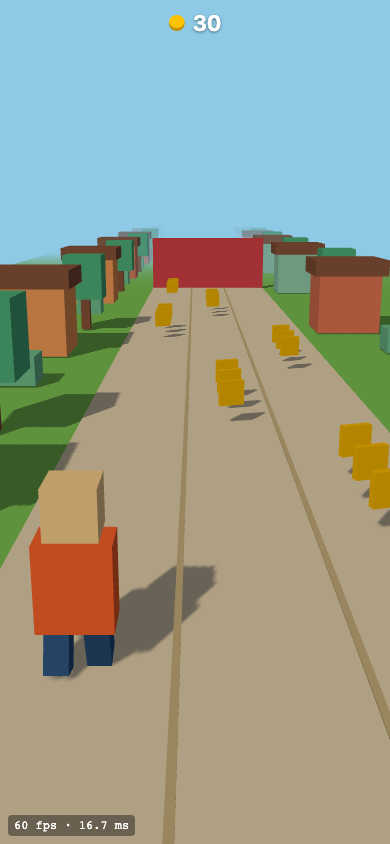
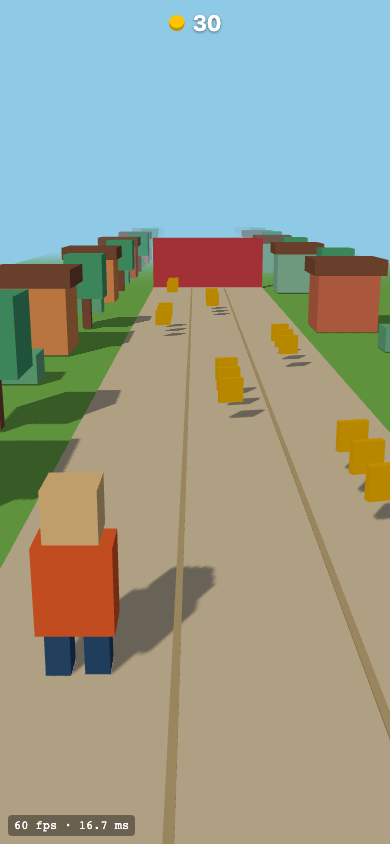
test(spiel)+ci: Codex-Review eingearbeitet — Render-Gate, Pointer-Swipe-Beleg, Least-Privilege
- Farbvarianz-Check im Playwright-Test: schwarzer/kaputter WebGL-Frame faellt
  jetzt maschinell auf (gemessen: 114 Farben/Helligkeit 230 vs. Schwellen 8/120)
- Mobile-Swipe end-to-end: Pointer-Drag auf #buehne sammelt Muenzen,
  touch-action:none maschinell geprueft (Sprung-Swipe bleibt HITL-Gate)
- deploy.yml: pages/id-token-Rechte nur noch im Deploy-Job (Befunde 1/2 +
  Least-Privilege aus 05-code-critic.md)

diff --git a/spiel/tests/tag1.spec.ts b/spiel/tests/tag1.spec.ts
@@ -1,18 +1,59 @@
-import { expect, test } from '@playwright/test'
+import { expect, test, type Page } from '@playwright/test'
 
 const BELEGE = '../Workflow/spiel-build/belege'
 const PRAEFIX = process.env.BASE_URL ? 'task12-live' : 'task10'
 
+// Render-Gate: liest den WebGL-Canvas nach einem frischen Frame in ein 2D-Canvas
+// und zaehlt quantisierte Farben — ein schwarzer/kaputter Frame faellt damit auf,
+// auch wenn DOM-Assertions gruen sind (Befund 1, 05-code-critic.md).
+async function messeFarbvarianz(page: Page): Promise<{ farben: number; maxHelligkeit: number }> {
+  return page.evaluate(
+    () =>
+      new Promise((resolve) => {
+        requestAnimationFrame(() => {
+          const quelle = document.querySelector('#buehne canvas') as HTMLCanvasElement
+          const ziel = document.createElement('canvas')
+          ziel.width = 64
+          ziel.height = 64
+          const ctx = ziel.getContext('2d')!
+          ctx.drawImage(quelle, 0, 0, 64, 64)
+          const daten = ctx.getImageData(0, 0, 64, 64).data
+          const farben = new Set<number>()
+          let maxHelligkeit = 0
+          for (let i = 0; i < daten.length; i += 4) {
+            farben.add(((daten[i] >> 4) << 8) | ((daten[i + 1] >> 4) << 4) | (daten[i + 2] >> 4))
+            maxHelligkeit = Math.max(maxHelligkeit, daten[i], daten[i + 1], daten[i + 2])
+          }
+          resolve({ farben: farben.size, maxHelligkeit })
+        })
+      }),
+  )
+}
+
 test.describe('Hochformat (Handy 390x844)', () => {
   test.use({ viewport: { width: 390, height: 844 } })
 
-  test('Canvas rendert, FPS-Anzeige per ?fps, HUD zaehlt Muenzen', async ({ page }) => {
+  test('Canvas rendert sichtbar (Farbvarianz), FPS-Anzeige per ?fps, HUD zaehlt Muenzen', async ({ page }) => {
     await page.goto('/Diplomarbeit/spiel/?fps')
     await expect(page.locator('#buehne canvas')).toBeVisible()
     await expect(page.locator('#fps')).toContainText('fps')
+    const { farben, maxHelligkeit } = await messeFarbvarianz(page)
+    expect(farben, 'Szene muss mehrere Farben zeigen (kein schwarzer Frame)').toBeGreaterThanOrEqual(8)
+    expect(maxHelligkeit, 'Szene darf nicht dunkel sein (Himmel ist hell)').toBeGreaterThan(120)
     await page.keyboard.press('ArrowLeft') // Spur 0 — dort liegt Reihe 1 (z=6)
     await expect(page.locator('.muenzen-zahl')).not.toHaveText('0', { timeout: 8000 })
     await page.screenshot({ path: `${BELEGE}/${PRAEFIX}-hochformat.png` })
+  })
+
+  test('Swipe links per Pointer sammelt Muenzen, touch-action ist none', async ({ page }) => {
+    await page.goto('/Diplomarbeit/spiel/')
+    await expect(page.locator('#buehne canvas')).toBeVisible()
+    await expect(page.locator('#buehne')).toHaveCSS('touch-action', 'none')
+    await page.mouse.move(260, 500)
+    await page.mouse.down()
+    await page.mouse.move(140, 500, { steps: 5 }) // dx=-120 → Intent 'links'
+    await page.mouse.up()
+    await expect(page.locator('.muenzen-zahl')).not.toHaveText('0', { timeout: 8000 })
   })
 })
 